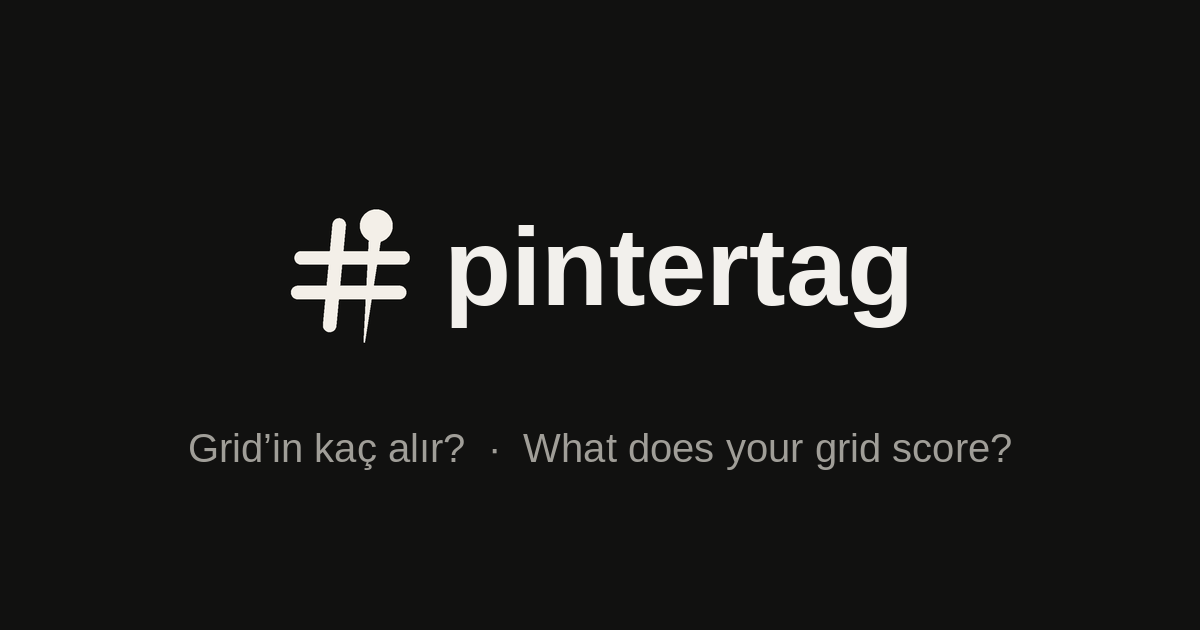
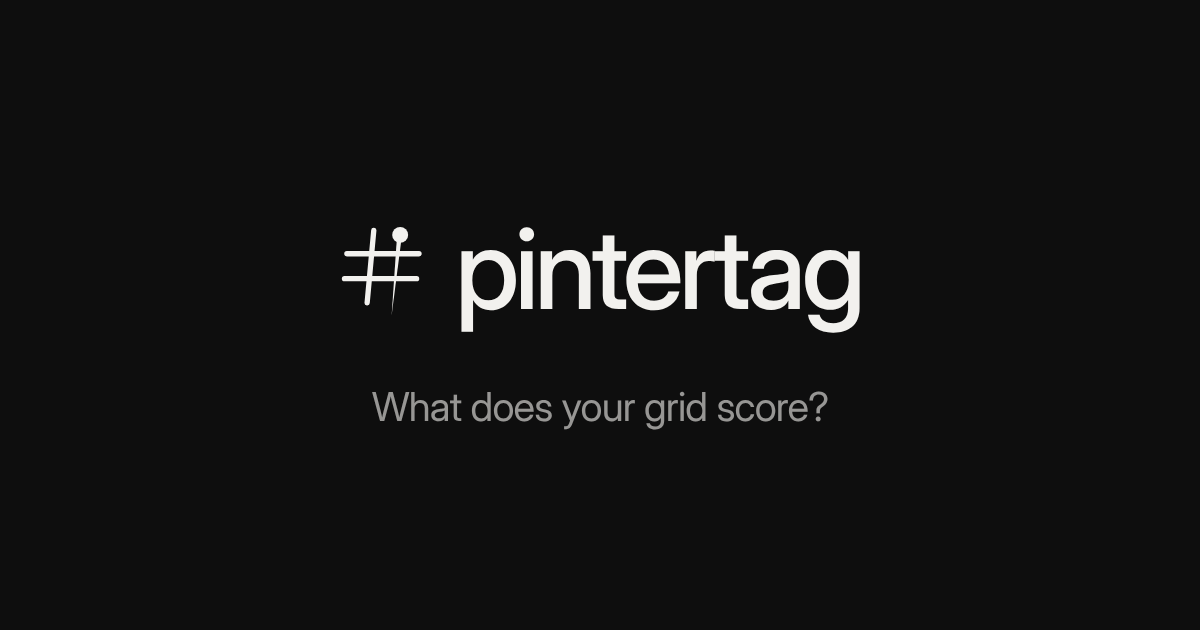
English by default on site and app; English legal texts
- pintertag.com and the app open in English for everyone; Turkish only when the visitor picks TR
- earlier visitors who never chose a language are moved to English once (langSet marks a real choice)
- privacy, terms and KVKK notice now have full English versions
- html lang, meta description, manifest and link preview image are English

Claude-Session: https://claude.ai/code/session_01XXeoYM274dKgVk3FiJ2ghd

Changed region(s): [[0.2467, 0.3317, 0.7708, 0.5429], [0.1542, 0.6032, 0.8633, 0.754]]

diff --git a/app/legal.js b/app/legal.js
@@ -2,6 +2,7 @@
 window.PTLegal = {
   updated: '22.11.2026',
   draft: 'Taslak metin. Yayından önce hukukçu kontrolünden geçecek; köşeli parantezli bilgiler doldurulacak.',
+  draftEn: 'Draft. A lawyer will review this before launch; details in [brackets] are still to be filled in.',
   privacy: { tr: 'Gizlilik Politikası', en: 'Privacy Policy', sections: [
     ['Kısaca', 'Fotoğrafların senindir. Pintertag onları senin telefonunda işler ve telefonunda saklar. Instagram şifreni istemeyiz, Instagram hesabına bağlanmayız, reklam için veri toplamayız ve verini satmayız.'],
     ['Veri sorumlusu', '[Şirket unvanı], [adres]. İletişim: [iletişim e-postası].'],
@@ -14,6 +15,19 @@ window.PTLegal = {
     ['Hakların', 'KVKK m.11 uyarınca verilerinin işlenip işlenmediğini öğrenme, bilgi isteme, düzeltme, silme, aktarıldığı kişileri öğrenme, itiraz etme ve zararın giderilmesini isteme hakkın var. Ayarlar > Hesap’tan verilerini indirebilir ve hesabını silebilirsin. Diğer talepler için: [iletişim e-postası]. 30 gün içinde yanıtlarız.'],
     ['Yaş sınırı', 'Pintertag 13 yaşından küçükler için değildir.'],
     ['Değişiklikler', 'Bu politikayı değiştirirsek uygulamada haber veririz. Önemli değişikliklerde onayını yeniden isteriz.']
+  ],
+  enSections: [
+    ['In short', 'Your photos are yours. Pintertag processes and stores them on your phone. We never ask for your Instagram password, we do not connect to your Instagram account, we do not collect data for ads and we do not sell your data.'],
+    ['Data controller', '[Company name], [address]. Contact: [contact email].'],
+    ['What we process', '• Account: your name, email address and sign-in method (email, Apple or Google).\n• Content: the photos you add, your grid order, plans, captions and notes.\n• Subscription: your plan, trial start and AI credit use. Your card details never reach us; payment is handled by the App Store or Google Play.\n• Preferences: language, theme, account type.\n• Support: your messages if you write to us.'],
+    ['Where your photos live', 'Your photos and plans are kept on your device, in the browser’s or the app’s own storage. If you sign in with a free account, your grid, plans and photos (except Reels videos) are also backed up to your account; only you can see them, and they come back when you sign in on another phone with the same email. If you do not sign in, nothing leaves your device. Profile screenshots you upload for a grid score are processed on your device only and are never sent anywhere. Sharing happens through your phone’s share menu, by you; Pintertag never posts to Instagram on your behalf.'],
+    ['AI labelling', 'If you turn it on, a single sheet of small previews of your photos is sent to our AI provider [provider name, country] to identify what each frame shows (person, detail, product, place…). The result is labels only. We do not use these previews for ads or anything else. Because the provider is abroad, this feature needs your explicit consent; you can turn it off any time in Settings > Privacy. When it is off, you pick the types yourself and ordering looks at light and colour.'],
+    ['Tracking and ads', 'The app has no third-party ad or tracking tools. We do not follow you across other apps and sites.'],
+    ['Who we share with', 'Only providers needed to run the service: account and backup (Supabase, servers in the EU/Ireland), site hosting (GitHub Pages), AI labelling [provider], payment (App Store / Google Play). Transfers abroad follow Article 9 of Turkey’s data protection law (KVKK). We share with no one else unless the law requires it.'],
+    ['How long we keep it', 'Data on your device stays there until you delete it. When you tap “Delete my account” in Settings, your cloud plans and photos are deleted immediately and your account record permanently. If you opted in to emails, you can withdraw that from the same screen; records we must keep by law (e.g. invoices) are kept for the required period.'],
+    ['Your rights', 'Under Article 11 of KVKK (and the GDPR where it applies) you can ask whether your data is processed, request information, correction or deletion, learn who it was shared with, object, and claim compensation for damage. You can download your data and delete your account in Settings > Account. For other requests: [contact email]. We reply within 30 days.'],
+    ['Age limit', 'Pintertag is not for children under 13.'],
+    ['Changes', 'If we change this policy we will tell you in the app. For important changes we will ask for your consent again.']
   ]},
   terms: { tr: 'Kullanım Koşulları', en: 'Terms of Use', sections: [
     ['Hizmet', 'Pintertag, Instagram feed’ini planlamana yardım eden bir araçtır: fotoğraflarını sıralar, grid’ini puanlar, paylaşım planı ve hatırlatma hazırlar. Öneriler tavsiye niteliğindedir; son karar senindir.'],
@@ -28,6 +42,20 @@ window.PTLegal = {
     ['Fesih', 'Hesabını istediğin an silebilirsin. Bu koşulları ağır biçimde ihlal eden hesapları kapatabiliriz.'],
     ['Uygulanacak hukuk', 'Türkiye Cumhuriyeti hukuku uygulanır. Tüketici uyuşmazlıklarında tüketici hakem heyetleri ve tüketici mahkemeleri, diğerlerinde İstanbul mahkemeleri yetkilidir.'],
     ['İletişim', '[Şirket unvanı] · [adres] · [iletişim e-postası]']
+  ],
+  enSections: [
+    ['The service', 'Pintertag is a tool that helps you plan your Instagram feed: it orders your photos, scores your grid and prepares posting plans and reminders. Suggestions are advice; the final decision is yours.'],
+    ['Relationship with Instagram', 'Pintertag is not affiliated with, endorsed by or connected to Instagram or Meta. Instagram is a trademark of Meta Platforms, Inc.'],
+    ['Your account', 'You are responsible for keeping your account details accurate and your device secure. You can also try Pintertag without an account; then your data stays on that device only.'],
+    ['Your content', 'You own the photos and text you upload. You give us only the limited, revocable permission needed to run the service. Do not upload content you do not have the rights to.'],
+    ['Pro subscription', '• The 7-day free trial is given once per account.\n• When the trial ends you are charged automatically for the plan you chose (monthly or yearly); cancel at least 24 hours before the trial ends and you will not be charged.\n• The subscription renews for the same period and price unless cancelled at least 24 hours before the period ends.\n• Cancel and manage: on the App Store in Settings > Apple ID > Subscriptions; on Google Play in Subscriptions. Cancelling takes effect at the end of the current period.\n• Prices include VAT. We will tell you about price changes in advance.\n• Refunds follow App Store / Google Play policies.'],
+    ['Right of withdrawal', 'Pro is a digital service delivered immediately. Under Turkish distance-contract rules (Art. 15/1-ğ), the right of withdrawal does not apply once you start the subscription. If you cancel during the trial you pay nothing.'],
+    ['AI credits', 'AI labelling uses credits: each labelled photo is 1 credit. The free plan has 20 credits a month, Pro has 500. Credits renew monthly, do not roll over, cannot be transferred and cannot be exchanged for cash.'],
+    ['Prohibited use', 'You may not use the service for illegal purposes, with content that infringes others’ rights, or through automated means that overload the system.'],
+    ['Liability', 'We provide the service “as is”. We do not guarantee it will run without interruption or errors. We recommend backing up data stored on your device (Settings > Backup). Cases where liability cannot be limited by law are reserved.'],
+    ['Termination', 'You can delete your account at any time. We may close accounts that seriously breach these terms.'],
+    ['Governing law', 'The laws of the Republic of Türkiye apply. Consumer disputes go to consumer arbitration committees and consumer courts; other disputes to the courts of Istanbul. Mandatory consumer rights of your own country are not affected.'],
+    ['Contact', '[Company name] · [address] · [contact email]']
   ]},
   kvkk: { tr: 'KVKK Aydınlatma Metni', en: 'KVKK Notice (Turkey)', sections: [
     ['Veri sorumlusu', '6698 sayılı Kişisel Verilerin Korunması Kanunu (KVKK) kapsamında veri sorumlusu [Şirket unvanı]’dır ([adres], [iletişim e-postası]).'],
@@ -37,5 +65,14 @@ window.PTLegal = {
     ['Aktarım', 'Hizmetin sunulması için barındırma, AI etiketleme ve ödeme hizmeti sağlayıcılarına; yasal zorunluluk halinde yetkili kurumlara. AI sağlayıcısı yurt dışında olduğundan bu aktarım açık rızana dayanır.'],
     ['Hakların (m.11)', 'Kişisel verilerinin işlenip işlenmediğini öğrenme, işlenmişse bilgi talep etme, amacına uygun kullanılıp kullanılmadığını öğrenme, yurt içinde ya da dışında aktarıldığı üçüncü kişileri bilme, eksik ya da yanlışsa düzeltilmesini, silinmesini ya da yok edilmesini isteme, bu işlemlerin aktarılan kişilere bildirilmesini isteme, otomatik sistemlerle analiz sonucu aleyhine bir sonuç çıkmasına itiraz etme ve zararın giderilmesini talep etme.'],
     ['Başvuru', 'Taleplerini [iletişim e-postası] adresine iletebilirsin. En geç 30 gün içinde ücretsiz yanıtlanır. Yanıtı yeterli bulmazsan Kişisel Verileri Koruma Kurulu’na şikâyet hakkın vardır.']
+  ],
+  enSections: [
+    ['Data controller', 'Under Turkey’s Personal Data Protection Law No. 6698 (KVKK), the data controller is [Company name] ([address], [contact email]).'],
+    ['Data and purposes', '• Identity and contact (name, email): to create your account and contact you.\n• Transaction security and subscription (plan, trial and credit records): to run the service and payments.\n• Visual content (photo previews): only when you turn on AI labelling, to identify photo types.\n• Marketing (optional): only with your permission, to send news and offers.'],
+    ['Legal grounds', 'Forming and performing the contract (Art. 5/2-c), legal obligation (Art. 5/2-ç), legitimate interest (Art. 5/2-f). Explicit consent (Art. 5/1, Art. 9) for AI labelling, which involves a transfer abroad, and for marketing messages.'],
+    ['How we collect it', 'Data is collected electronically through the app, from the information you enter.'],
+    ['Transfers', 'To hosting, AI labelling and payment providers to run the service; to authorities when the law requires it. Because the AI provider is abroad, that transfer relies on your explicit consent.'],
+    ['Your rights (Art. 11)', 'To learn whether your personal data is processed and request information about it; to learn its purpose and whether it is used accordingly; to know the third parties it was shared with in Turkey or abroad; to ask for correction if it is incomplete or wrong, and for deletion or destruction; to ask that these steps be notified to those it was shared with; to object to an outcome against you produced only by automated analysis; and to claim compensation for damage.'],
+    ['How to apply', 'Send your request to [contact email]. We reply free of charge within 30 days at the latest. If you are not satisfied with the reply, you can complain to the Turkish Personal Data Protection Board.']
   ]}
 };

diff --git a/app/index.html b/app/index.html
@@ -1,5 +1,5 @@
 <!doctype html>
-<html lang="tr"><head><meta charset="utf-8"><meta name="viewport" content="width=device-width,initial-scale=1,viewport-fit=cover"><meta name="theme-color" content="#ffffff"><meta name="apple-mobile-web-app-capable" content="yes"><meta name="description" content="Pintertag: fotoğraflarını seç, tarzını koru, paylaşımını hazırla."><title>Pintertag — Your feed’s art director</title><link rel="icon" href="assets/logo.png"><link rel="manifest" href="manifest.webmanifest"><link rel="apple-touch-icon" href="assets/icon-180.png"><meta name="apple-mobile-web-app-title" content="Pintertag"><meta name="apple-mobile-web-app-status-bar-style" content="default"><meta name="mobile-web-app-capable" content="yes"><link rel="stylesheet" href="style.css?v=105"><script>/* desktop: show the app inside an iPhone frame. phones and the framed copy run the app as usual. */
+<html lang="en"><head><meta charset="utf-8"><meta name="viewport" content="width=device-width,initial-scale=1,viewport-fit=cover"><meta name="theme-color" content="#ffffff"><meta name="apple-mobile-web-app-capable" content="yes"><meta name="description" content="Pintertag is your feed’s art director: score your Instagram grid, plan your next 9 posts, and keep your style consistent."><title>Pintertag — Your feed’s art director</title><link rel="icon" href="assets/logo.png"><link rel="manifest" href="manifest.webmanifest"><link rel="apple-touch-icon" href="assets/icon-180.png"><meta name="apple-mobile-web-app-title" content="Pintertag"><meta name="apple-mobile-web-app-status-bar-style" content="default"><meta name="mobile-web-app-capable" content="yes"><link rel="stylesheet" href="style.css?v=105"><script>/* desktop: show the app inside an iPhone frame. phones and the framed copy run the app as usual. */
 (function(){var q=new URLSearchParams(location.search),inFrame=q.get('pt-frame')==='1';
 if(inFrame){document.documentElement.classList.add('pt-in-frame');return}
 var wide=matchMedia('(min-width:760px) and (min-height:640px)').matches,touch=matchMedia('(hover:none) and (pointer:coarse)').matches;
@@ -15,5 +15,5 @@ addEventListener('message',async function(e){var d=e.data;if(e.origin!==location
 <header class="top"><a href="#" class="wordmark" aria-label="Pintertag"><img src="assets/logo.png" alt="">pintertag</a><div class="top-actions"><button id="language" class="text-button">EN</button><button id="appearance" class="icon-button" aria-label="Tema değiştir">◐</button><button id="enter" class="pill solid"></button></div></header>
 <main id="main"></main><nav id="appnav" aria-label="Ana menü" hidden></nav>
 <dialog id="modal"><div class="modal-top"><h2 id="modal-title"></h2><button class="icon-button" id="close-modal" aria-label="Kapat"><svg width="14" height="14" viewBox="0 0 14 14" aria-hidden="true"><path d="M1.5 1.5l11 11M12.5 1.5l-11 11" stroke="currentColor" stroke-width="1.6" stroke-linecap="round" fill="none"/></svg></button></div><div id="modal-body"></div></dialog>
-<div id="toast" role="status" aria-live="polite"></div><input id="upload" type="file" accept="image/jpeg,image/png,image/webp" multiple hidden><script src="store.js?v=5"></script><script src="engine.js?v=71"></script><script src="app.js"></script><script src="save.js"></script><script src="studio.js"></script><script src="brand.js"></script><script src="simple.js?v=73"></script><script src="edit.js?v=2"></script><script src="stories.js"></script><script src="drag.js"></script><script src="settings.js"></script><script src="planning.js"></script><script src="credits.js"></script><script src="score.js?v=4"></script><script src="merge.js?v=79"></script><script src="share.js"></script><script src="gridcheck.js?v=720"></script><script src="importgrid.js?v=703"></script><script src="purpose.js"></script><script src="vibe.js?v=2"></script><script src="beforeafter.js?v=71"></script><script src="motion.js"></script><script src="legal.js"></script><script src="account.js?v=2"></script><script src="progress.js?v=73"></script><script src="planpick.js"></script><script src="labels.js?v=74"></script><script src="autotype.js?v=76"></script><script src="booth.js?v=15"></script><script src="profile.js?v=3"></script><script src="plan.js?v=3"></script><script src="home.js?v=9"></script><script src="postweek.js?v=3"></script><script src="spaces.js?v=1"></script><script src="reels.js?v=2"></script><script src="cloud.js?v=4"></script><script>if('serviceWorker' in navigator&&(location.protocol==='https:'||location.hostname==='localhost')&&!/claude/.test(location.hostname)&&!document.documentElement.classList.contains('pt-in-frame'))addEventListener('load',function(){navigator.serviceWorker.register('sw.js').catch(function(){});if(navigator.storage&&navigator.storage.persist)navigator.storage.persist().catch(function(){})});</script>
+<div id="toast" role="status" aria-live="polite"></div><input id="upload" type="file" accept="image/jpeg,image/png,image/webp" multiple hidden><script src="store.js?v=5"></script><script src="engine.js?v=71"></script><script src="app.js?v=2"></script><script src="save.js"></script><script src="studio.js"></script><script src="brand.js"></script><script src="simple.js?v=73"></script><script src="edit.js?v=2"></script><script src="stories.js"></script><script src="drag.js"></script><script src="settings.js"></script><script src="planning.js"></script><script src="credits.js"></script><script src="score.js?v=4"></script><script src="merge.js?v=79"></script><script src="share.js"></script><script src="gridcheck.js?v=720"></script><script src="importgrid.js?v=703"></script><script src="purpose.js"></script><script src="vibe.js?v=2"></script><script src="beforeafter.js?v=71"></script><script src="motion.js"></script><script src="legal.js?v=2"></script><script src="account.js?v=3"></script><script src="progress.js?v=73"></script><script src="planpick.js"></script><script src="labels.js?v=74"></script><script src="autotype.js?v=76"></script><script src="booth.js?v=15"></script><script src="profile.js?v=3"></script><script src="plan.js?v=3"></script><script src="home.js?v=9"></script><script src="postweek.js?v=3"></script><script src="spaces.js?v=1"></script><script src="reels.js?v=2"></script><script src="cloud.js?v=4"></script><script>if('serviceWorker' in navigator&&(location.protocol==='https:'||location.hostname==='localhost')&&!/claude/.test(location.hostname)&&!document.documentElement.classList.contains('pt-in-frame'))addEventListener('load',function(){navigator.serviceWorker.register('sw.js').catch(function(){});if(navigator.storage&&navigator.storage.persist)navigator.storage.persist().catch(function(){})});</script>
 </body></html>

diff --git a/app/app.js b/app/app.js
@@ -6,13 +6,15 @@ const names={person:['Kişi','Person'],detail:['Detay','Detail'],product:['Ürü
 const typeName=t=>T(...(names[t]||names.unknown));
 const sampleTypes=['person','detail','person','product','person','place','text','detail','product'];
 const samples=()=>sampleTypes.map((type,i)=>({id:'sample'+i,src:'assets/photo-'+i+'.webp',type,light:[.35,.3,.65,.85,.7,.25,.9,.3,.8][i],accent:i===2,bw:i===0,selected:true,locked:false,important:false,title:['Portre','Kumaş detayı','Sarı palto','Triko','Şehirde','Merdiven','Kış 26','Ayakkabı','Kemer'][i],zoom:1}));
-const defaults={lang:'tr',view:'landing',theme:'light',mode:'brand',purpose:'grid',style:'balanced',count:9,photos:[],result:[],before:[],plans:[],recipes:[],vote:{favorites:[],cover:null,comment:''},reorder:null};
+const defaults={lang:'en',view:'landing',theme:'light',mode:'brand',purpose:'grid',style:'balanced',count:9,photos:[],result:[],before:[],plans:[],recipes:[],vote:{favorites:[],cover:null,comment:''},reorder:null};
 let state={...defaults};try{const saved=JSON.parse(localStorage.getItem('pintertag-demo-v1'));if(saved)state={...defaults,...saved,view:'landing',reorder:null}}catch{}
+/* global launch: English first. a saved Turkish setting is kept only if the person chose it themselves (langSet) */
+if(!state.langSet)state.lang='en';
 // Retire untouched bundled demo photos; preserve every user upload/edit.
 {const removed=new Set(state.photos.filter(p=>/^sample[0-8]$/.test(p.id)&&/^assets\/photo-[0-8]\.webp$/.test(p.src)&&!p.cropSource).map(p=>p.id));
 if(removed.size){state.photos=state.photos.filter(p=>!removed.has(p.id));for(const key of ['simpleOrder','result','before','simpleUndo','hiddenGrid'])if(Array.isArray(state[key]))state[key]=state[key].filter(id=>!removed.has(id));state.plans=state.plans.map(p=>({...p,photos:(p.photos||[]).filter(id=>!removed.has(id))})).filter(p=>p.photos.length);state.photos.forEach(p=>{if(p.carousel)p.carousel=p.carousel.filter(id=>!removed.has(id))});if(state.gridRemoved)state.gridRemoved=state.gridRemoved.filter(r=>!removed.has(r.id));try{localStorage.setItem('pintertag-demo-v1',JSON.stringify(state))}catch{}}
 }
-const save=()=>{const warn=()=>toast(T('Alan doldu. Son eklenen fotoğraflar bu oturumda kalır.','Storage is full. New photos remain in this session.'));if(window.PTStore)return PTStore.save(state,warn);try{localStorage.setItem('pintertag-demo-v1',JSON.stringify(state))}catch{warn()}};
+const save=()=>{if(state.lang!=='en')state.langSet=true;const warn=()=>toast(T('Alan doldu. Son eklenen fotoğraflar bu oturumda kalır.','Storage is full. New photos remain in this session.'));if(window.PTStore)return PTStore.save(state,warn);try{localStorage.setItem('pintertag-demo-v1',JSON.stringify(state))}catch{warn()}};
 let toastTimer;function toast(text){$('#toast').textContent=text;$('#toast').classList.add('show');clearTimeout(toastTimer);toastTimer=setTimeout(()=>$('#toast').classList.remove('show'),3100)}
 const action=(name,label,cls='pill',data='')=>`<button class="${cls}" data-action="${name}" ${data}>${label}</button>`;
 function photoCard(p,index,kind='grid'){return `<div class="photo ${kind==='pick'&&!p.selected&&!p.locked?'dim':''} ${state.reorder===p.id?'selected':''}" data-photo="${esc(p.id)}"><button class="image-open" data-action="${kind==='pick'?'toggle':'photo'}" data-id="${esc(p.id)}" aria-label="${esc(p.title||typeName(p.type))}"><img src="${esc(p.src)}" alt="${esc(p.title||typeName(p.type))}" style="object-position:${p.position||50}% 50%;transform:scale(${Number(p.zoom)||1})"></button>${kind==='pick'?`<button class="pin ${p.locked?'locked':''}" data-action="lock" data-id="${esc(p.id)}" aria-label="${T('Mutlaka kalsın','Keep this photo')}" aria-pressed="${p.locked}">${p.locked?'◆':'◇'}</button>`:`<button class="pin" data-action="photo" data-id="${esc(p.id)}" aria-label="${T('Fotoğrafı düzenle','Edit photo')}">⌑</button>`}<span class="badge">${p.locked?'◆ ':''}${kind==='result'?(index+1)+' / '+state.result.length:typeName(p.type)}</span></div>`}

diff --git a/app/sw.js b/app/sw.js
@@ -1,5 +1,5 @@
 /* offline: the whole app is cached on first open; a new deploy (new VERSION) refreshes it */
-const VERSION = 'pt-web-v16';
+const VERSION = 'pt-web-v17';
 const FILES = ["./", "account.js", "app.js", "assets/icon-180.png", "assets/icon-192.png", "assets/icon-512.png", "assets/inspo/brand-0.webp", "assets/inspo/brand-1.webp", "assets/inspo/brand-2.webp", "assets/inspo/brand-3.webp", "assets/inspo/brand-4.webp", "assets/inspo/brand-5.webp", "assets/inspo/brand-6.webp", "assets/inspo/brand-7.webp", "assets/inspo/brand-8.webp", "assets/inspo/personal-0.webp", "assets/inspo/personal-1.webp", "assets/inspo/personal-2.webp", "assets/inspo/personal-3.webp", "assets/inspo/personal-4.webp", "assets/inspo/personal-5.webp", "assets/inspo/personal-6.webp", "assets/inspo/personal-7.webp", "assets/inspo/personal-8.webp", "assets/logo.png", "assets/photo-0.webp", "assets/photo-1.webp", "assets/photo-2.webp", "assets/photo-3.webp", "assets/photo-4.webp", "assets/photo-5.webp", "assets/photo-6.webp", "assets/photo-7.webp", "assets/photo-8.webp", "autotype.js", "beforeafter.js", "booth.js", "cloud.js", "vendor/supabase.js", "brand.js", "credits.js", "drag.js", "edit.js", "engine.js", "gridcheck.js", "home.js", "importgrid.js", "index.html", "labels.js", "launch.js", "legal.js", "manifest.webmanifest", "merge.js", "motion.js", "plan.js", "planning.js", "planpick.js", "postweek.js", "profile.js", "progress.js", "purpose.js", "reels.js", "save.js", "score.js", "settings.js", "share.js", "simple.js", "spaces.js", "store.js", "stories.js", "studio.js", "style.css", "vibe.js"];
 self.addEventListener('install', e => { e.waitUntil(caches.open(VERSION).then(c => c.addAll(FILES)).then(() => self.skipWaiting())); });
 self.addEventListener('activate', e => { e.waitUntil(caches.keys().then(ks => Promise.all(ks.filter(k => k !== VERSION).map(k => caches.delete(k)))).then(() => self.clients.claim())); });

diff --git a/index.html b/index.html
@@ -16,11 +16,11 @@
 <meta property="og:type" content="website">
 <meta property="og:site_name" content="pintertag">
 <meta property="og:url" content="https://pintertag.com/">
-<meta property="og:image" content="https://pintertag.com/assets/og.png">
+<meta property="og:image" content="https://pintertag.com/assets/og.png?v=2">
 <meta property="og:image:width" content="1200">
 <meta property="og:image:height" content="630">
 <meta name="twitter:card" content="summary_large_image">
-<meta name="twitter:image" content="https://pintertag.com/assets/og.png">
+<meta name="twitter:image" content="https://pintertag.com/assets/og.png?v=2">
 <script type="application/ld+json">{"@context":"https://schema.org","@type":"WebSite","name":"pintertag","alternateName":"Pintertag","url":"https://pintertag.com/"}</script>
 <link rel="apple-touch-icon" href="assets/icon-180.png">
 <link rel="stylesheet" href="intro.css?v=1">
@@ -131,7 +131,7 @@ footer a{color:inherit}
 
 <script>
 /* language first: gridcheck.js reads the global `lang` for card text */
-var lang = (function(){ try { var s = localStorage.getItem('pt-lang'); if (s) return s; } catch(e){} return /^tr/i.test(navigator.language || '') ? 'tr' : 'en'; })();
+var lang = (function(){ try { var s = localStorage.getItem('pt-lang'); if (s) return s; } catch(e){} return 'en'; })();
 </script>
 <script src="score.js?v=4"></script>
 <script src="gridcheck.js?v=720"></script>

diff --git a/app/account.js b/app/account.js
@@ -50,8 +50,8 @@
 
   /* ---------- legal docs ---------- */
   function openDoc(doc, back){ const d = PTLegal[doc]; if (!d) return;
-    const body = d.sections.map(([h, p]) => `<h3>${esc(h)}</h3><p>${esc(p)}</p>`).join('');
-    modal(T(d.tr, d.en) + '.', `<div class="m-legal">${state.lang === 'en' ? '<p class="m-draft">The English translation will be published before launch. Turkish text below.</p>' : ''}<p class="m-draft">${esc(PTLegal.draft)} ${T('Son güncelleme','Updated')}: ${PTLegal.updated}</p>${body}</div>${back ? action('m-pw-open', T('Geri','Back'), 'pill wide space', `data-ctx="${esc(back)}"`) : ''}`); }
+    const body = (state.lang === 'en' && d.enSections ? d.enSections : d.sections).map(([h, p]) => `<h3>${esc(h)}</h3><p>${esc(p)}</p>`).join('');
+    modal(T(d.tr, d.en) + '.', `<div class="m-legal"><p class="m-draft">${esc(state.lang === 'en' ? PTLegal.draftEn : PTLegal.draft)} ${T('Son güncelleme','Updated')}: ${PTLegal.updated}</p>${body}</div>${back ? action('m-pw-open', T('Geri','Back'), 'pill wide space', `data-ctx="${esc(back)}"`) : ''}`); }
 
   /* ---------- paywall ---------- */
   let pwCtx = '';
